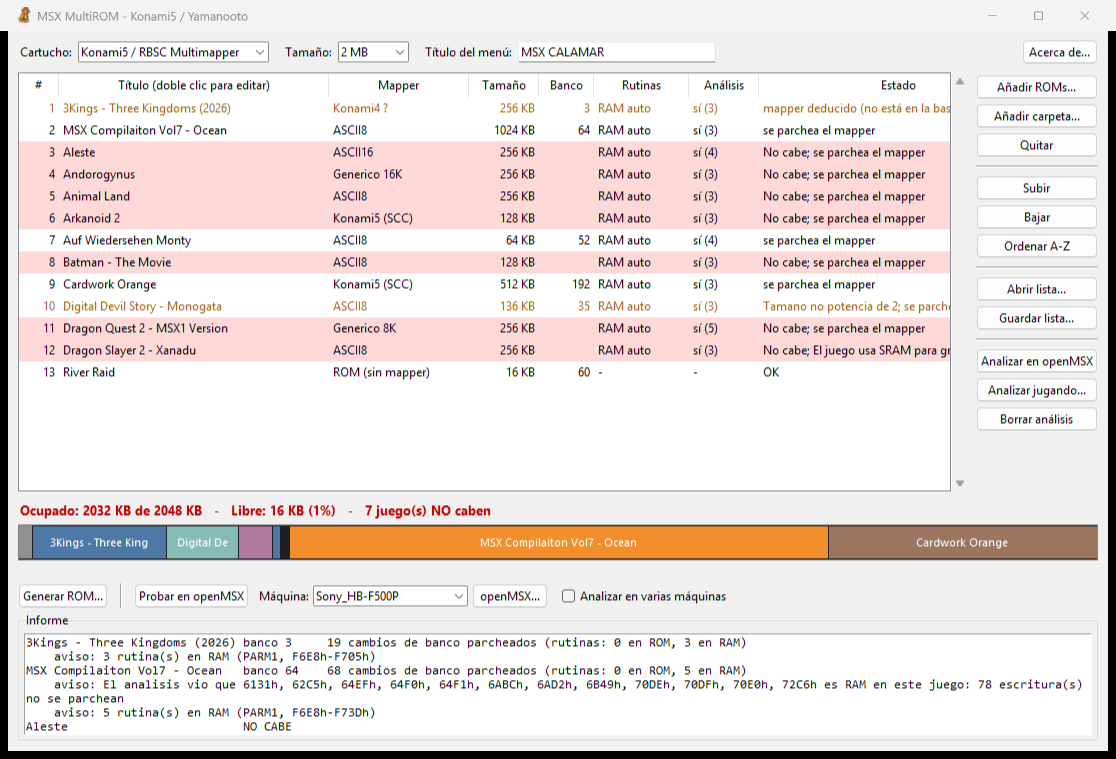
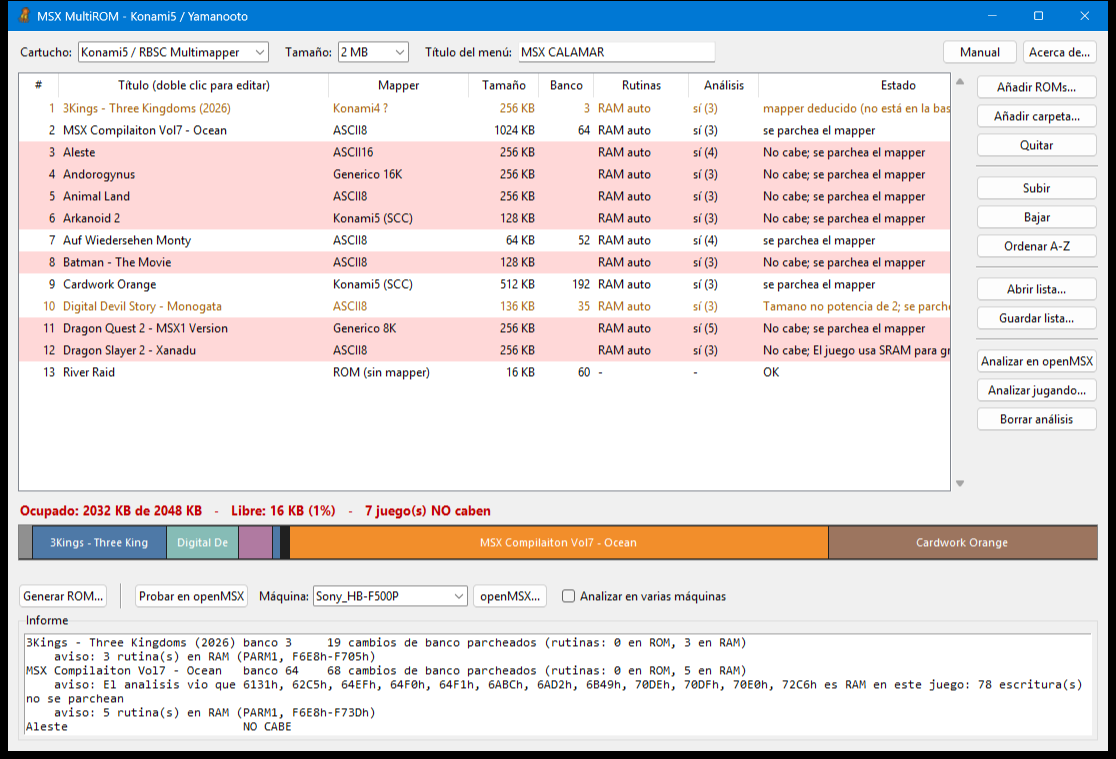
Version 1.2: boton Manual, manual en PDF (docs/crear_pdf.py)

Changed region(s): [[0.0, 0.0, 1.0, 0.0909]]

diff --git a/docs/crear_pdf.py b/docs/crear_pdf.py
@@ -1,0 +1,133 @@
+# Copyright (C) 2026 Germán Díaz / MSX Calamar
+# SPDX-License-Identifier: GPL-2.0-or-later
+"""Genera docs/MANUAL.pdf a partir de docs/MANUAL.md.
+
+    python docs/crear_pdf.py
+
+Necesita: pip install markdown pypdf reportlab, y Microsoft Edge o Google Chrome
+(se usa en modo sin ventana para imprimir el HTML a PDF).
+"""
+import io
+import os
+import re
+import subprocess
+import sys
+import tempfile
+
+import markdown
+from markdown.extensions.toc import slugify_unicode
+from pypdf import PdfReader, PdfWriter
+from reportlab.pdfgen import canvas
+
+HERE = os.path.dirname(os.path.abspath(__file__))
+SRC = os.path.join(HERE, "MANUAL.md")
+OUT = os.path.join(HERE, "MANUAL.pdf")
+ICON = os.path.join(HERE, "..", "app", "data", "calamar.png")
+BROWSERS = [r"C:\Program Files (x86)\Microsoft\Edge\Application\msedge.exe",
+            r"C:\Program Files\Microsoft\Edge\Application\msedge.exe",
+            r"C:\Program Files\Google\Chrome\Application\chrome.exe"]
+
+CSS = """
+@page { size: A4; margin: 18mm 17mm 20mm 17mm; }
+body { font-family: "Segoe UI", Arial, sans-serif; font-size: 10.5pt; line-height: 1.45; color: #1d1d1f; }
+h1 { display: none; }
+h2 { font-size: 17pt; color: #c2410c; border-bottom: 2px solid #f0a060; padding-bottom: 3px;
+     margin-top: 30px; break-after: avoid; }
+h2.salto { break-before: page; margin-top: 0; }
+h3 { font-size: 12.5pt; color: #333; margin-top: 18px; break-after: avoid; }
+p, li { orphans: 3; widows: 3; }
+a { color: #0060c0; text-decoration: none; }
+code { font-family: Consolas, monospace; font-size: 9.5pt; background: #f2f2f2; padding: 0 3px; border-radius: 3px; }
+table { border-collapse: collapse; width: 100%; margin: 8px 0 12px; font-size: 9.5pt; break-inside: auto; }
+tr { break-inside: avoid; }
+th { background: #f6e3d4; text-align: left; }
+th, td { border: 1px solid #d8c8bc; padding: 4px 6px; vertical-align: top; }
+img { max-width: 100%; display: block; margin: 8px auto; break-inside: avoid; }
+td img { margin: 0 auto; }
+img[src$="aviso_yamanooto.png"] { max-width: 55%; }
+img[src$="acerca_de.png"] { max-width: 50%; }
+blockquote { margin: 10px 0; padding: 6px 12px; background: #fff6ec; border-left: 4px solid #f0a060; }
+blockquote p { margin: 2px 0; }
+hr { display: none; }
+.cover { height: 250mm; display: flex; flex-direction: column; align-items: center; justify-content: center;
+         text-align: center; }
+.cover img { width: 120px; image-rendering: pixelated; }
+.cover .t { font-size: 34pt; font-weight: bold; margin-top: 18px; }
+.cover .s { font-size: 15pt; color: #c2410c; margin-top: 4px; }
+.cover .d { font-size: 11pt; color: #555; margin-top: 26px; max-width: 120mm; }
+.cover .a { font-size: 12pt; margin-top: 60px; }
+.toc { break-before: page; }
+.toc h2 { break-before: avoid; }
+.toc ol { font-size: 12pt; line-height: 1.9; }
+"""
+
+
+def main():
+    with open(SRC, encoding="utf-8") as f:
+        md = f.read()
+    version = re.search(r"\*\*Versión ([\d.]+)\*\*", md).group(1)
+    # El indice del .md se sustituye por uno propio en la portada; se quitan el
+    # titulo, la linea de autor y la captura inicial (van en la portada)
+    toc = re.search(r"## Índice\n(.*?)\n---", md, re.S).group(1)
+    body = md[md.index("## 1."):]
+    intro = md[md.index("\n", md.index("**Versión")) + 1:md.index("![")].strip()
+    html_body = markdown.markdown(body, extensions=["tables", "toc"],
+                                  extension_configs={"toc": {"slugify": slugify_unicode}})
+    html_toc = markdown.markdown(toc)
+    # Paginas nuevas solo en las secciones largas
+    for sec in ("3-", "7-", "10-", "11-", "12-"):
+        html_body = html_body.replace('<h2 id="%s' % sec, '<h2 class="salto" id="%s' % sec)
+    html_intro = markdown.markdown(intro)
+    # Las imagenes son relativas a docs/; el enlace a LICENSE se deja apuntando a GitHub
+    html_body = html_body.replace('href="../LICENSE"',
+                                  'href="https://github.com/germandiazfuentes/msx-multirom-scc/blob/main/LICENSE"')
+    icon = "file:///" + os.path.abspath(ICON).replace("\\", "/")
+    html = f"""<!doctype html><html lang="es"><head><meta charset="utf-8">
+<base href="file:///{HERE.replace(os.sep, '/')}/"><title>Manual de MSX MultiROM</title><style>{CSS}</style></head><body>
+<div class="cover"><img src="{icon}" alt="">
+<div class="t">MSX MultiROM</div><div class="s">Manual de uso · versión {version}</div>
+<div class="d">{html_intro}</div>
+<div class="a"><b>Germán Díaz / MSX Calamar</b><br>msxcalamar.com</div></div>
+<div class="toc"><h2>Índice</h2>{html_toc}</div>
+<div class="toc"><h2>Ventana principal</h2><img src="img/ventana.png" alt=""></div>
+{html_body}</body></html>"""
+    tmp = tempfile.mkdtemp(prefix="manual_")
+    page = os.path.join(tmp, "manual.html")
+    raw = os.path.join(tmp, "manual.pdf")
+    with open(page, "w", encoding="utf-8") as f:
+        f.write(html)
+    browser = next((b for b in BROWSERS if os.path.exists(b)), None)
+    if not browser:
+        sys.exit("No se encuentra Edge ni Chrome")
+    subprocess.run([browser, "--headless", "--disable-gpu", "--no-pdf-header-footer",
+                    "--allow-file-access-from-files", "--print-to-pdf=" + raw,
+                    "file:///" + page.replace("\\", "/")], check=True, timeout=120,
+                   capture_output=True)
+    number_pages(raw, OUT, version)
+    print(OUT)
+
+
+def number_pages(src, dst, version):
+    """Pie de pagina con el numero de pagina (salvo en la portada) y metadatos."""
+    writer = PdfWriter(clone_from=src)     # conserva los destinos de los enlaces internos
+    n = len(writer.pages)
+    for i, pg in enumerate(writer.pages):
+        if i:
+            w, h = float(pg.mediabox.width), float(pg.mediabox.height)
+            buf = io.BytesIO()
+            c = canvas.Canvas(buf, pagesize=(w, h))
+            c.setFont("Helvetica", 8)
+            c.setFillGray(0.45)
+            c.drawString(48, 28, "MSX MultiROM %s - Manual de uso" % version)
+            c.drawRightString(w - 48, 28, "%d / %d" % (i + 1, n))
+            c.save()
+            buf.seek(0)
+            pg.merge_page(PdfReader(buf).pages[0])
+    writer.add_metadata({"/Title": "MSX MultiROM - Manual de uso", "/Author": "Germán Díaz / MSX Calamar",
+                         "/Subject": "Versión %s" % version})
+    with open(dst, "wb") as f:
+        writer.write(f)
+
+
+if __name__ == "__main__":
+    main()

diff --git a/app/multirom_gui.py b/app/multirom_gui.py
@@ -20,9 +20,10 @@ import analyze
 import multirom as mr
 
 APP_NAME = "MSX MultiROM"
-APP_VERSION = "1.1"
+APP_VERSION = "1.2"
 APP_AUTHOR = "Germán Díaz / MSX Calamar"
 APP_WEB = "https://msxcalamar.com"
+APP_MANUAL_URL = "https://github.com/germandiazfuentes/msx-multirom-scc/blob/main/docs/MANUAL.md"
 APP_LICENSE_URL = "https://www.gnu.org/licenses/old-licenses/gpl-2.0.html"
 ICON_ICO = os.path.join(mr.APP_DIR, "data", "calamar.ico")
 ICON_PNG = os.path.join(mr.APP_DIR, "data", "calamar.png")
@@ -108,6 +109,7 @@ class App(tk.Tk):
         ttk.Label(top, text="Título del menú:").pack(side="left")
         ttk.Entry(top, textvariable=self.menu_title, width=32).pack(side="left", padx=4)
         ttk.Button(top, text="Acerca de...", command=self.about).pack(side="right")
+        ttk.Button(top, text="Manual", command=lambda: webbrowser.open(APP_MANUAL_URL)).pack(side="right", padx=4)
 
         # Lista de juegos + botones
         mid = ttk.Frame(self, padding=(10, 0))

diff --git a/docs/MANUAL.md b/docs/MANUAL.md
@@ -1,6 +1,6 @@
 # Manual de uso de MSX MultiROM
 
-**Versión 1.1** · Germán Díaz / MSX Calamar · [msxcalamar.com](https://msxcalamar.com)
+**Versión 1.2** · Germán Díaz / MSX Calamar · [msxcalamar.com](https://msxcalamar.com)
 
 MSX MultiROM junta varios juegos MSX en una sola ROM con un menú de selección,
 lista para grabarla en un cartucho **RBSC Multimapper** (512KB o 2MB) o
@@ -80,6 +80,7 @@ Si tienes Python 3 instalado, también puedes descargar el código y ejecutar
 | **Cartucho** | Tipo de cartucho donde vas a grabar la ROM. Tiene que coincidir con el cartucho real. |
 | **Tamaño** | Tamaño de la ROM: 512KB o 2MB para el RBSC; 512KB, 2MB, 4MB u 8MB para el Yamanooto. Usa el tamaño de tu cartucho. |
 | **Título del menú** | Texto de la cabecera del menú en el MSX (hasta 32 caracteres). |
+| **Manual** | Abre este manual en el navegador. |
 | **Acerca de...** | Versión, autor, créditos y licencia. |
 
 ### Lista de juegos
@@ -96,6 +97,7 @@ Si tienes Python 3 instalado, también puedes descargar el código y ejecutar
 | **Estado** | `OK` o los avisos de ese juego (ver [sección 11](#11-mensajes-y-avisos)). |
 
 Colores de las filas:
+
 - **Negro:** todo correcto.
 - **Naranja:** hay un aviso que conviene revisar.
 - **Rojo:** el juego no se puede usar (formato no soportado o fichero dañado).
@@ -163,6 +165,7 @@ Esos juegos no se incluyen en la ROM.
 ![Juegos que no caben](img/no_cabe.png)
 
 Soluciones:
+
 - Quita algún juego grande o cambia el orden: los juegos se colocan por orden
   de la lista y aprovechando los huecos.
 - Elige un tamaño mayor si tu cartucho lo admite.
@@ -199,6 +202,7 @@ ejecutan desde RAM. Además, las rutinas de adaptación necesitan una zona de RA
 que el juego no use.
 
 El análisis **ejecuta cada juego original en openMSX** y apunta:
+
 - todos los cambios de banco que hace realmente;
 - qué zonas de RAM deja libres.
 
@@ -206,6 +210,7 @@ Con esa información el programa adapta los cambios de banco que faltaban y
 coloca las rutinas en una zona segura. En la columna Rutinas aparece **RAM auto**.
 
 **Cuándo usarlo:**
+
 - **Cartucho RBSC:** recomendado siempre. Este cartucho necesita adaptar todos
   los cambios de banco, y algunos juegos (por ejemplo Hydlide 3) solo funcionan
   con el análisis.
@@ -351,6 +356,7 @@ no arrancarían. Usa la ROM en un Yamanooto, o genérala para el cartucho RBSC.
 ## 12. Solución de problemas
 
 **Un juego no arranca o se cuelga desde el menú.**
+
 1. Comprueba que el juego original funciona en esa máquina, cargándolo solo
    en openMSX. Algunos juegos no funcionan en ciertos modelos. Por ejemplo,
    River Raid no funciona en el Sony HB-F500P ni siquiera solo.
